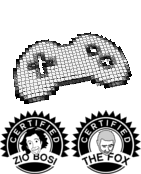
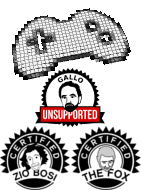
build with custom resource path: scons APP_RES="/usr/share/gnome-arcade"

diff --git a/src/app.c b/src/app.c
@@ -32,7 +32,8 @@ const gchar *app_authors[] = { "Strippato <strippato@gmail.com>",
                                NULL };
 
 const gchar *app_artists[] = { "Strippato <strippato@gmail.com>",
-                               "Sergio Gridelli <sergio.gridelli@gmail.com> \"The Fox\" &amp; \"Zio Bosi\" seal of quality logo",
+                               "Sergio Gridelli <sergio.gridelli@gmail.com> \"The Fox\"® &amp; \"Zio Bosi\"® seal of quality logo",
+                               "Sergio Gridelli <sergio.gridelli@gmail.com> \"Gallo UNSUPPORTED\"® logo",
                                NULL };
 
 GtkApplication *app_application;

diff --git a/header/app.h b/header/app.h
@@ -35,8 +35,11 @@
 #define APP_WEB             "https://github.com/strippato" 
 #define APP_GNU_WARN        "You should have received a copy of the GNU GPL along with gnome-arcade.\n"\
 							"If not, see <http://www.gnu.org/licenses/>."
-
-#define APP_RESOURCE 		"res/"
+#ifndef APP_RES
+	#define APP_RESOURCE 		"./res/"
+#else
+	#define APP_RESOURCE 		APP_RES "/res/"
+#endif						
 #define APP_DIRCONFIG  		"gnome-arcade"
 #define APP_CSS				"gnome-arcade.css"
 

diff --git a/src/ui.c b/src/ui.c
@@ -1086,6 +1086,8 @@ ui_init (void)
     ui_view  = 0;
     ui_mouseOver = -1;
 
+    g_print ("resource path is %s\n", APP_RESOURCE);
+
     /* CSS */
     GtkCssProvider* cssProvider = gtk_css_provider_new ();
     GdkDisplay* display = gdk_display_get_default ();
